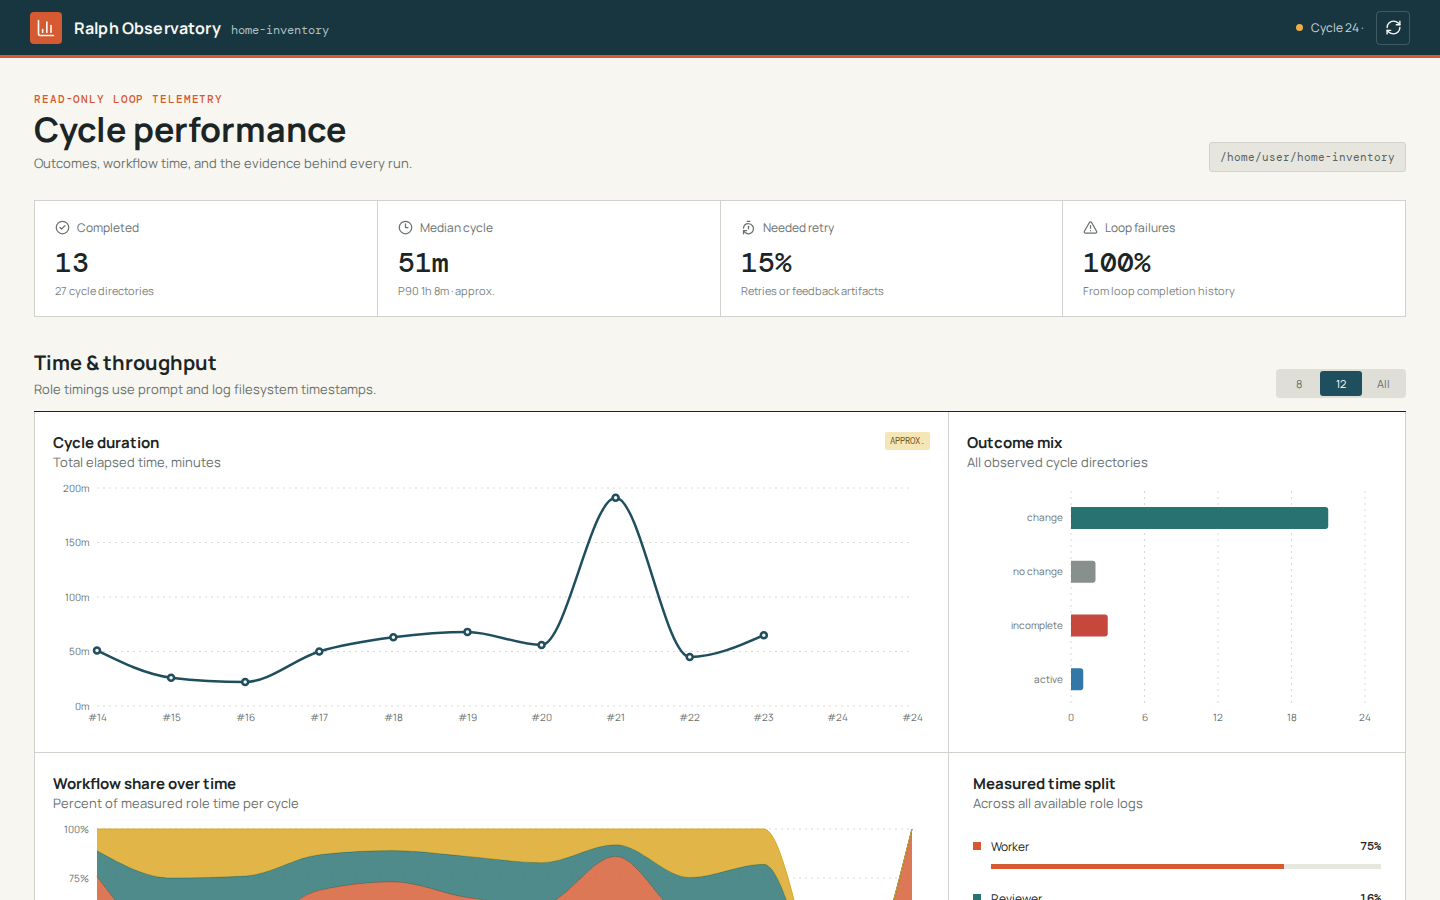
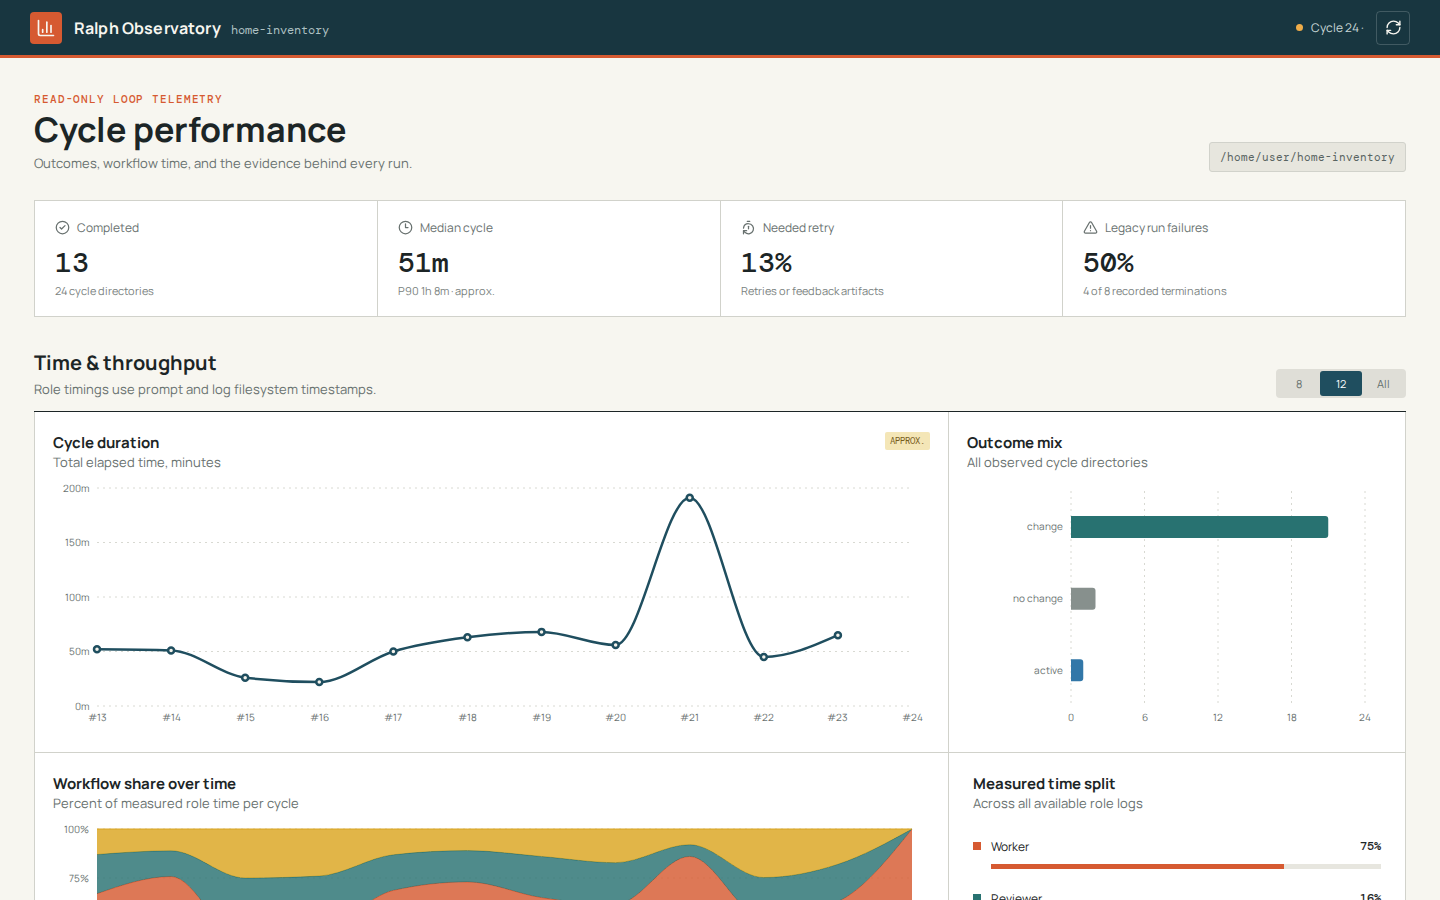
fix: collapse restarted cycle records

diff --git a/server/index.ts b/server/index.ts
@@ -64,20 +64,6 @@ function quantile(values: number[], percentile: number): number | null {
   return sorted[Math.min(sorted.length - 1, Math.floor(percentile * sorted.length))]
 }
 
-function canonicalCycles(cycles: Cycle[]): Cycle[] {
-  const statusPriority: Record<Cycle['status'], number> = { incomplete: 0, complete: 1, active: 2 }
-  const byNumber = new Map<number, Cycle>()
-  for (const candidate of cycles) {
-    const current = byNumber.get(candidate.cycle)
-    if (!current
-      || statusPriority[candidate.status] > statusPriority[current.status]
-      || (candidate.status === current.status && candidate.startedAt > current.startedAt)) {
-      byNumber.set(candidate.cycle, candidate)
-    }
-  }
-  return [...byNumber.values()].sort((a, b) => a.cycle - b.cycle)
-}
-
 async function loadCycle(entryName: string, activeDirectory: string | null): Promise<Cycle | null> {
   const match = cyclePattern.exec(entryName)
   if (!match) return null
@@ -165,7 +151,7 @@ function canonicalCycles(cycles: Cycle[]): Cycle[] {
     const current = canonical.get(cycle.cycle)
     if (!current
       || statusRank[cycle.status] > statusRank[current.status]
-      || (statusRank[cycle.status] === statusRank[current.status] && cycle.startedAt > current.startedAt)) {
+      || (cycle.status === current.status && cycle.startedAt > current.startedAt)) {
       canonical.set(cycle.cycle, cycle)
     }
   }
